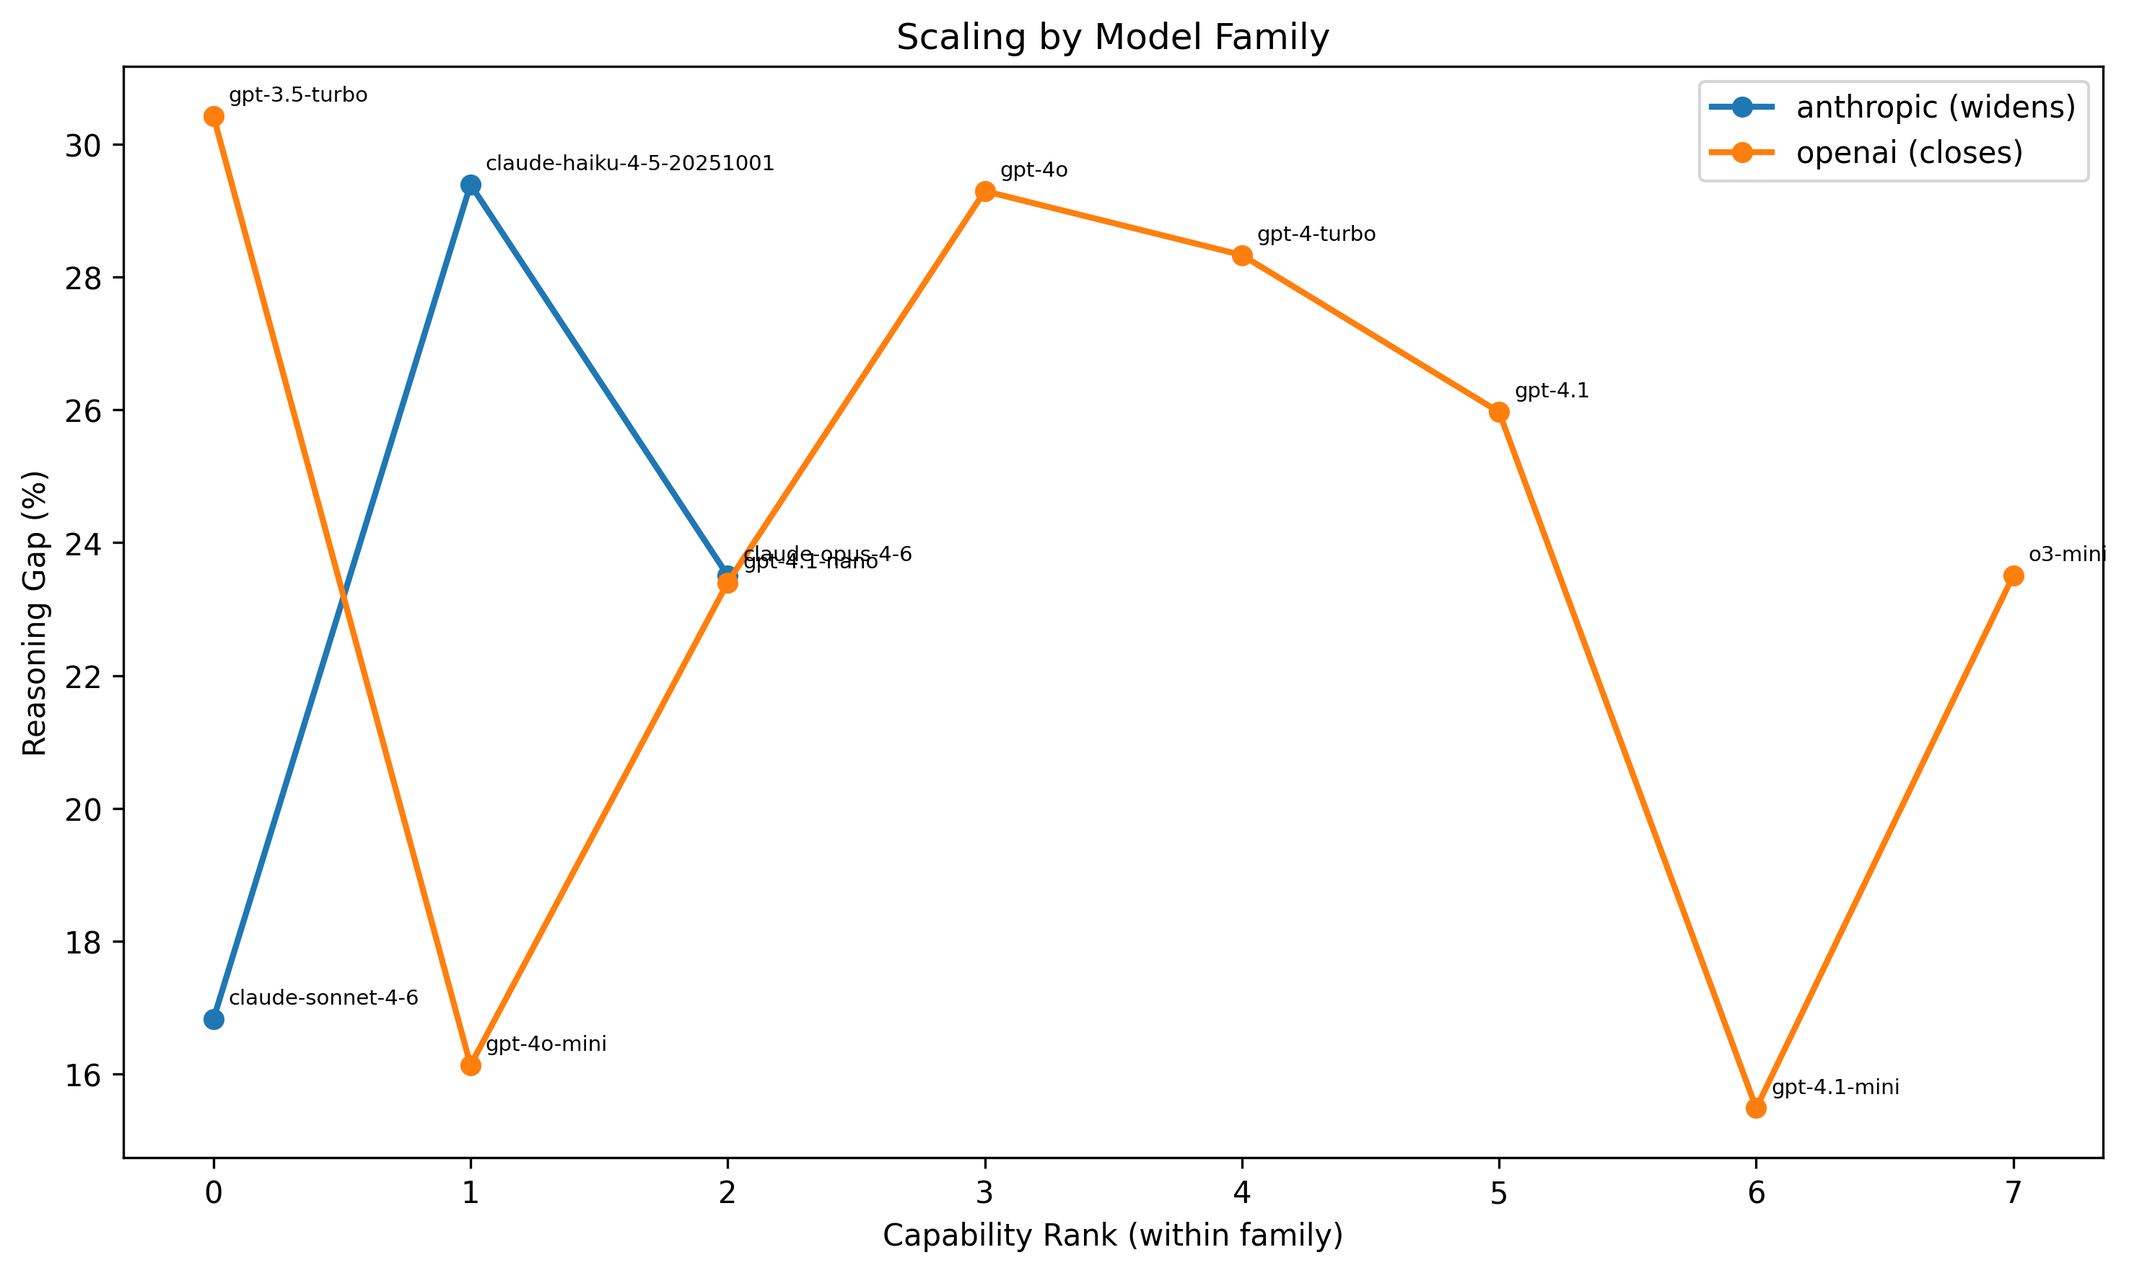
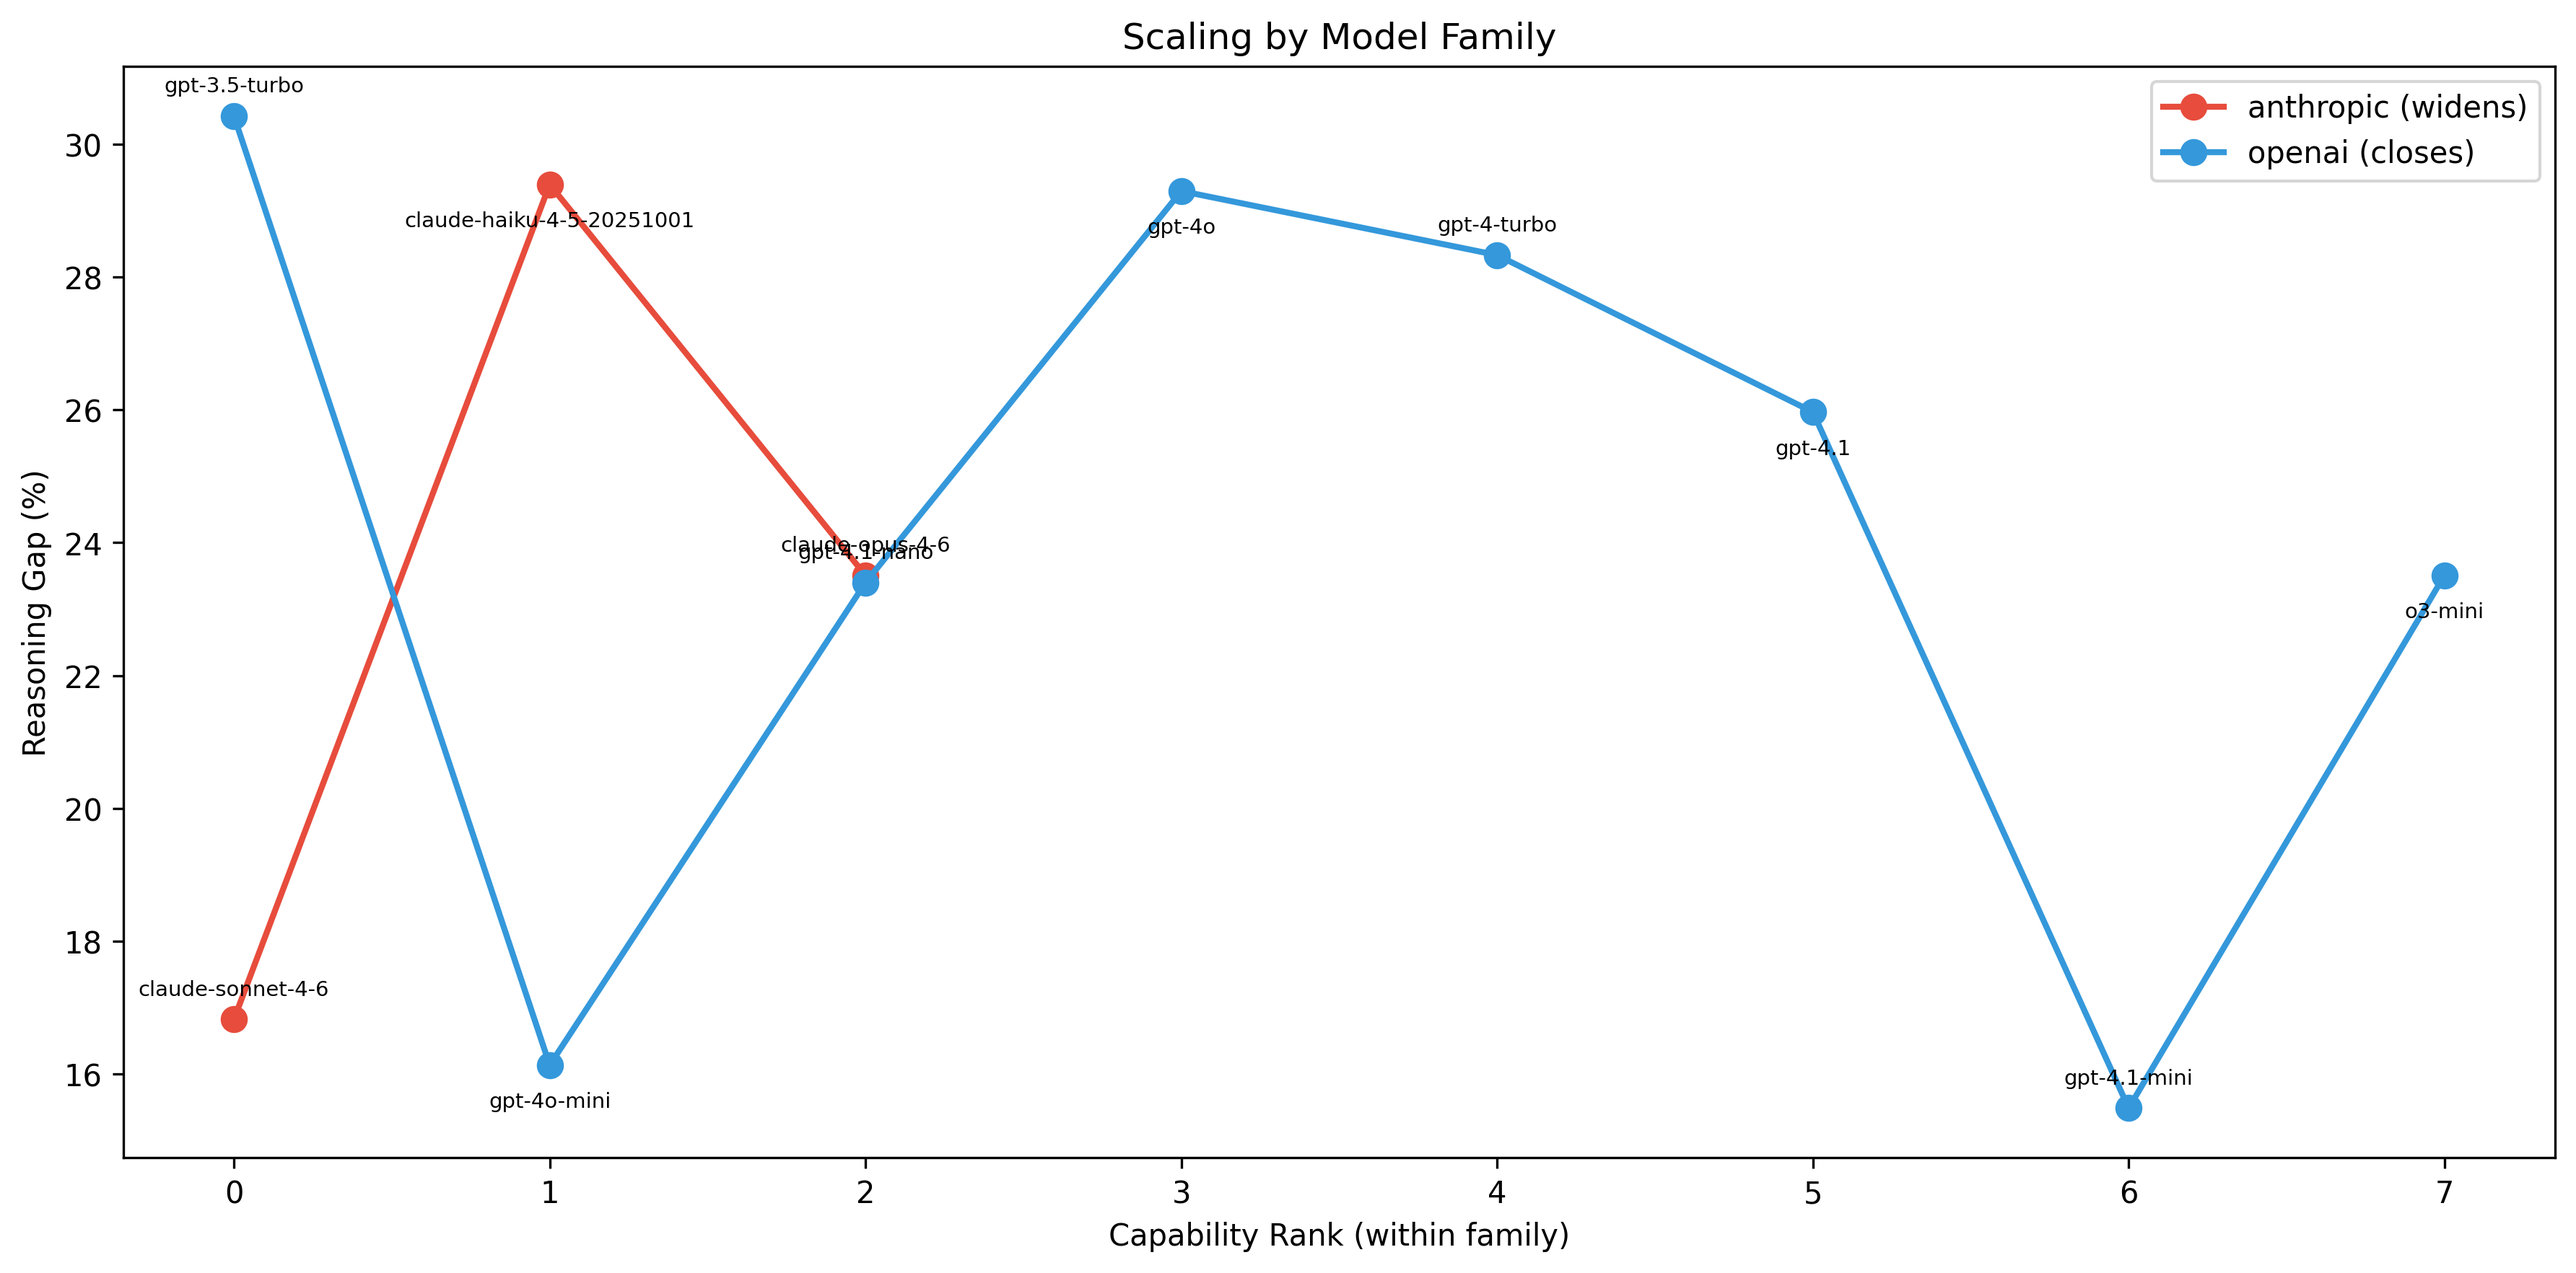
Fix figure readability: top-15 contamination heatmap, non-overlapping scaling labels

diff --git a/epoch_bench/figures.py b/epoch_bench/figures.py
@@ -262,19 +262,28 @@ def save_all_figures(
 
 def contamination_heatmap(
     profiles: list,
+    top_n: int = 15,
     ax: plt.Axes | None = None,
 ) -> plt.Figure:
-    """Heatmap: models x domains showing contamination index."""
+    """Heatmap: models x top-N domains showing contamination index."""
+    # Rank domains by mean absolute contamination across models, keep top N
+    from collections import defaultdict
+    from statistics import mean as _mean
+
+    domain_scores: dict[str, list[float]] = defaultdict(list)
+    for p in profiles:
+        for d, v in p.per_domain.items():
+            domain_scores[d].append(abs(v))
+    ranked = sorted(domain_scores.items(), key=lambda x: _mean(x[1]), reverse=True)
+    # Filter out domains with too few data points (< 3 models reporting)
+    ranked = [(d, scores) for d, scores in ranked if len(scores) >= len(profiles) // 2]
+    domains = [d for d, _ in ranked[:top_n]]
+
     if ax is None:
-        fig, ax = plt.subplots(figsize=(12, max(4, len(profiles) * 0.8)))
+        fig, ax = plt.subplots(figsize=(max(10, len(domains) * 0.7), max(4, len(profiles) * 0.7)))
     else:
         fig = ax.get_figure()
 
-    # Collect all domains
-    all_domains: set[str] = set()
-    for p in profiles:
-        all_domains.update(p.per_domain.keys())
-    domains = sorted(all_domains)
     models = [p.model for p in profiles]
 
     data = np.zeros((len(models), len(domains)))
@@ -286,15 +295,19 @@ def contamination_heatmap(
         data,
         ax=ax,
         annot=True,
-        fmt=".1f",
+        fmt=".0f",
+        annot_kws={"size": 9},
         xticklabels=domains,
         yticklabels=models,
         cmap="RdYlGn_r",
         center=0,
+        vmin=-50,
+        vmax=100,
         cbar_kws={"label": "Contamination Signal (%)"},
     )
-    ax.set_title("Contamination by Domain")
-    ax.set_xticklabels(domains, rotation=45, ha="right")
+    ax.set_title(f"Contamination by Domain (top {len(domains)})")
+    ax.set_xticklabels(domains, rotation=45, ha="right", fontsize=9)
+    ax.set_yticklabels(models, fontsize=9)
     fig.tight_layout()
     return fig
 
@@ -359,7 +372,7 @@ def scaling_gap_plot(
 ) -> plt.Figure:
     """Scatter + regression line: capability rank vs reasoning gap."""
     if ax is None:
-        fig, ax = plt.subplots(figsize=(8, 5))
+        fig, ax = plt.subplots(figsize=(10, 6))
     else:
         fig = ax.get_figure()
 
@@ -368,8 +381,46 @@ def scaling_gap_plot(
     labels = [e.model for e in analysis.entries]
 
     ax.scatter(ranks, gaps, s=80, zorder=3)
+
+    # Label placement with collision avoidance
+    annotations = []
     for r, g, label in zip(ranks, gaps, labels):
-        ax.annotate(label, (r, g), textcoords="offset points", xytext=(5, 5), fontsize=8)
+        annotations.append((r, g, label))
+
+    # Sort by y-position to handle close points
+    annotations.sort(key=lambda x: (-x[1], x[0]))
+
+    placed_boxes: list[tuple[float, float, float, float]] = []  # (x, y, xo, yo)
+    candidate_offsets = [
+        (7, 8), (7, -16), (-7, 8), (-7, -16),
+        (7, 20), (7, -28), (-7, 20), (-7, -28),
+        (20, 0), (-20, 0),
+    ]
+
+    for r, g, label in annotations:
+        best = candidate_offsets[0]
+        for xo, yo in candidate_offsets:
+            # Check against all placed labels using offset-point scale
+            ok = True
+            for pr, pg, pxo, pyo in placed_boxes:
+                # Estimate if labels would overlap: same offset-point space
+                dx = abs((r - pr) * 12 + (xo - pxo))  # scale data to ~offset points
+                dy = abs((g - pg) * 3 + (yo - pyo))
+                if dx < 55 and dy < 14:
+                    ok = False
+                    break
+            if ok:
+                best = (xo, yo)
+                break
+
+        ha = "left" if best[0] >= 0 else "right"
+        ax.annotate(
+            label, (r, g),
+            textcoords="offset points", xytext=best,
+            fontsize=7.5, ha=ha,
+            arrowprops={"arrowstyle": "-", "color": "gray", "alpha": 0.3} if abs(best[0]) > 15 or abs(best[1]) > 20 else None,
+        )
+        placed_boxes.append((r, g, best[0], best[1]))
 
     # Regression line
     if len(ranks) >= 2:
@@ -391,21 +442,28 @@ def scaling_family_lines(
 ) -> plt.Figure:
     """Per-family line plot of gap vs capability within each family."""
     if ax is None:
-        fig, ax = plt.subplots(figsize=(10, 6))
+        fig, ax = plt.subplots(figsize=(12, 6))
     else:
         fig = ax.get_figure()
+
+    colors = {"anthropic": "#E74C3C", "openai": "#3498DB", "gemini": "#2ECC71", "deepseek": "#9B59B6"}
 
     for fa in analysis.per_family:
         ranks = list(range(len(fa.models)))
         gaps = [g * 100 for g in fa.gaps]
-        ax.plot(ranks, gaps, marker="o", label=f"{fa.family} ({fa.trend})", linewidth=2)
-        for r, g, m in zip(ranks, gaps, fa.models):
-            ax.annotate(m, (r, g), textcoords="offset points", xytext=(5, 5), fontsize=7)
+        color = colors.get(fa.family, None)
+        ax.plot(ranks, gaps, marker="o", label=f"{fa.family} ({fa.trend})",
+                linewidth=2, markersize=8, color=color)
+        # Alternate label positions to avoid overlap
+        for i, (r, g, m) in enumerate(zip(ranks, gaps, fa.models)):
+            y_off = 8 if i % 2 == 0 else -14
+            ax.annotate(m, (r, g), textcoords="offset points",
+                        xytext=(0, y_off), fontsize=7, ha="center")
 
     ax.set_xlabel("Capability Rank (within family)")
     ax.set_ylabel("Reasoning Gap (%)")
     ax.set_title("Scaling by Model Family")
-    ax.legend()
+    ax.legend(loc="upper right")
     fig.tight_layout()
     return fig
 
